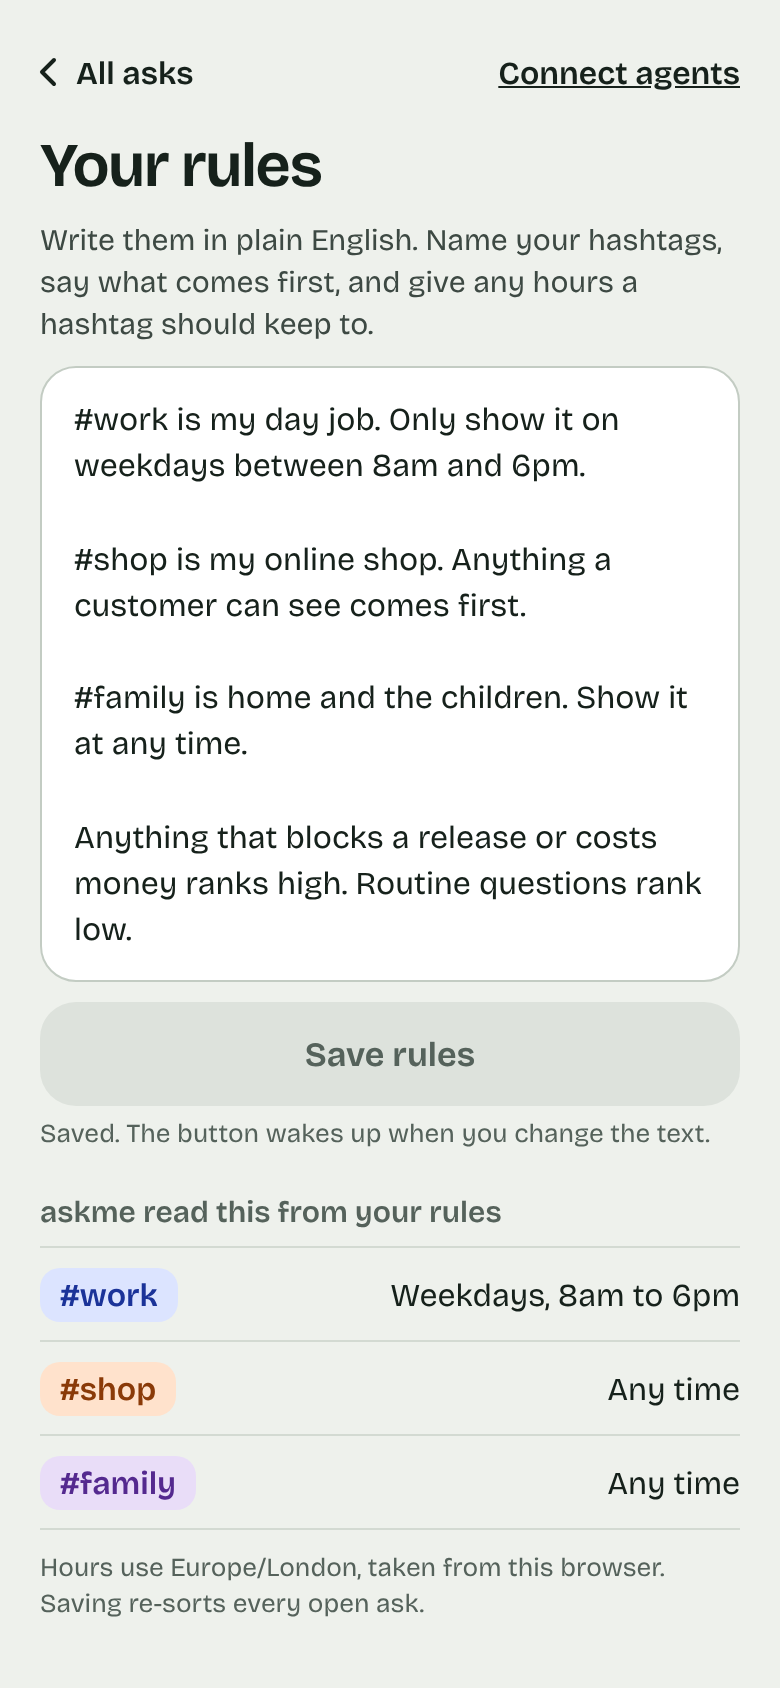
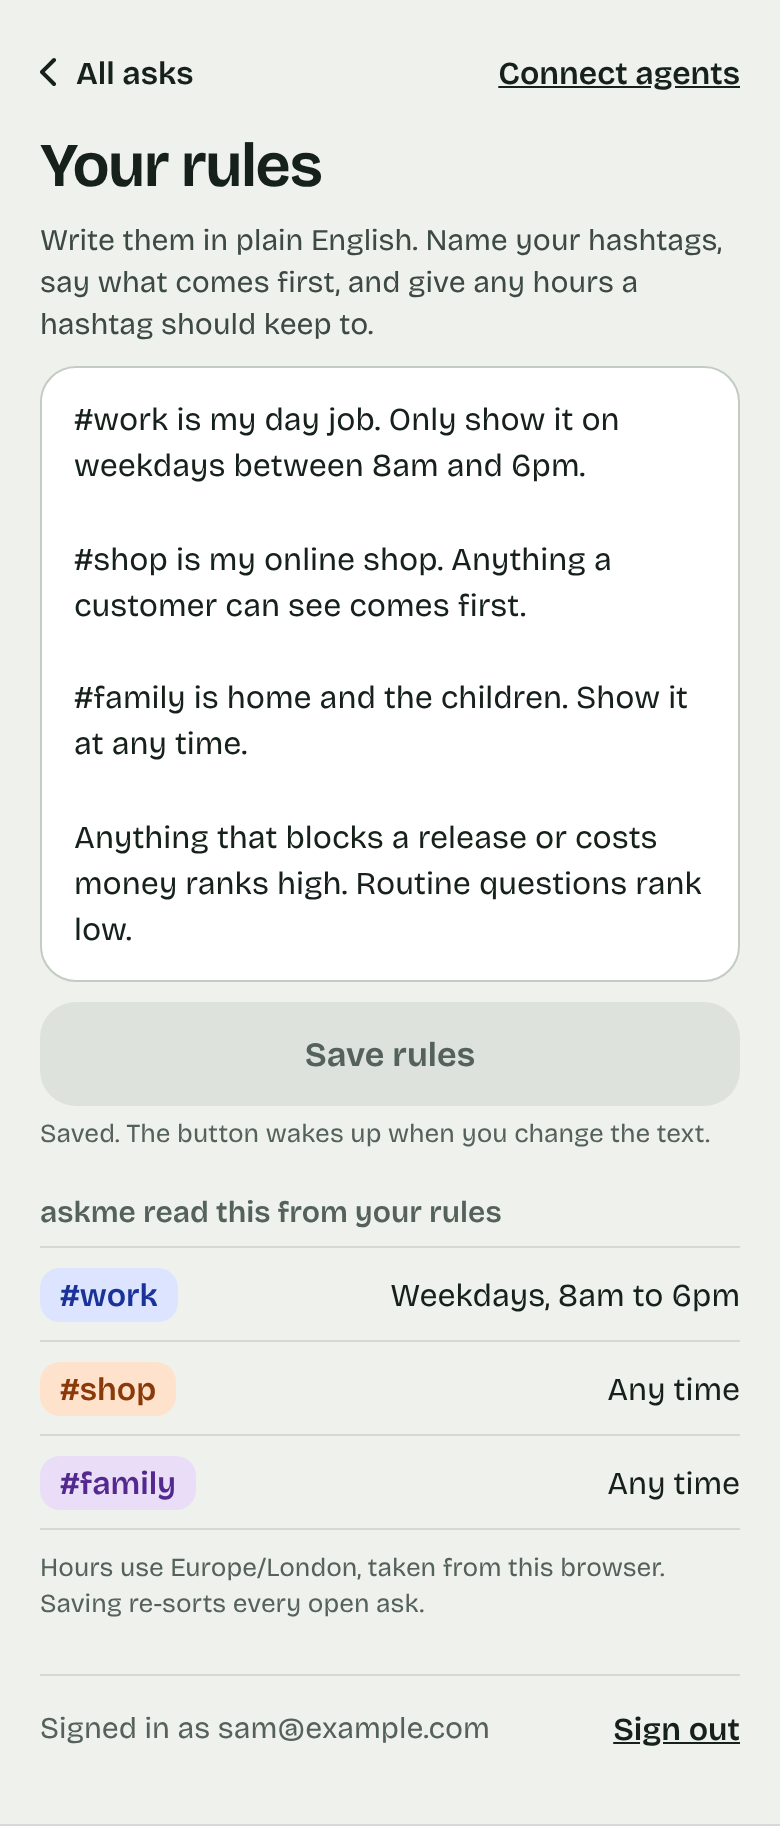
Let a signed-in person sign out from the rules
The foot of the Rules screen names the account and offers Sign out.
Pressing it asks first when the rules have unsaved text, drops the
screen from the address, and signs out through Clerk without loading
the page again, so the signed-out page shows. The live check now ends
by signing out, and a reload proves the session is gone.

Closes #28

Claude-Session: https://claude.ai/code/session_01HinZKMBxJb5qrDhfAU36UJ

diff --git a/web/rules.browser.ts b/web/rules.browser.ts
@@ -17,6 +17,7 @@ import { palette } from "./src/palette";
 
 const phone = { width: 390, height: 844 };
 const session = "test-session-token";
+const email = "sam@example.com";
 
 const text =
   "#work is my day job. Only show it on weekdays between 8am and 6pm.\n\n#shop is my online shop. Anything a customer can see comes first.";
@@ -69,6 +70,7 @@ async function openRules(
 ): Promise<OpenPage> {
   const view = await openPage(`${inject("pageUrl")}#rules`, viewport, {
     session,
+    email,
     timeZone,
     api: { [pagePaths.rules]: rules, [pagePaths.asks]: list },
   });
@@ -468,5 +470,72 @@ describe("the rules screen", () => {
       expect(box?.height, await control.innerText()).toBeGreaterThanOrEqual(44);
       expect(box?.width, await control.innerText()).toBeGreaterThanOrEqual(44);
     }
+  });
+});
+
+describe("signing out", () => {
+  const headline = "Your agents ask here. You decide what gets through.";
+
+  it("names the account at the foot of the rules, with Sign out beside it", async () => {
+    view = await openRules(saved);
+    const { page } = view;
+    const account = page.getByText(`Signed in as ${email}`, { exact: true });
+    const signOut = page.getByRole("button", { name: "Sign out" });
+    expect(await account.isVisible()).toBe(true);
+    expect(await signOut.isVisible()).toBe(true);
+    const footnote = await page
+      .getByText("Saving re-sorts every open ask.")
+      .boundingBox();
+    const [named, button] = await Promise.all([
+      account.boundingBox(),
+      signOut.boundingBox(),
+    ]);
+    expect(named?.y).toBeGreaterThan(footnote?.y ?? Infinity);
+    expect(button?.x).toBeGreaterThan(named?.x ?? Infinity);
+  });
+
+  it("offers Sign out alone when Clerk has no email address for the account", async () => {
+    view = await openPage(`${inject("pageUrl")}#rules`, phone, {
+      session,
+      api: { [pagePaths.rules]: saved, [pagePaths.asks]: list },
+    });
+    const { page } = view;
+    await page.getByRole("button", { name: "Sign out" }).waitFor();
+    expect(await page.getByText("Signed in as").count()).toBe(0);
+  });
+
+  it("signs out through Clerk and shows the signed-out page, with no screen in the address", async () => {
+    view = await openRules(saved);
+    const { page } = view;
+    await page.getByRole("button", { name: "Sign out" }).click();
+    await page.getByRole("heading", { level: 1, name: headline }).waitFor();
+    expect(await view.askedFor()).toBe("sign-out");
+    expect(
+      await page.getByRole("button", { name: "Sign in" }).isVisible(),
+    ).toBe(true);
+    expect(new URL(page.url()).hash).toBe("");
+  });
+
+  it("asks before signing out with unsaved text, and stays signed in when told to", async () => {
+    view = await openRules(saved);
+    const { page } = view;
+    const box = page.getByRole("textbox");
+    await box.fill("#work only.");
+    const asked: string[] = [];
+    page.once("dialog", (dialog) => {
+      asked.push(dialog.message());
+      void dialog.dismiss();
+    });
+    await page.getByRole("button", { name: "Sign out" }).click();
+    expect(asked).toEqual(["Leave without saving your rules?"]);
+    expect(await view.askedFor()).toBeNull();
+    expect(await box.inputValue()).toBe("#work only.");
+    expect(new URL(page.url()).hash).toBe("#rules");
+    page.once("dialog", (dialog) => {
+      void dialog.accept();
+    });
+    await page.getByRole("button", { name: "Sign out" }).click();
+    await page.getByRole("heading", { level: 1, name: headline }).waitFor();
+    expect(await view.askedFor()).toBe("sign-out");
   });
 });

diff --git a/docs/design/mockup/rules.html b/docs/design/mockup/rules.html
@@ -12,7 +12,7 @@ a{color:#16211B}a:hover{color:#16211B}
 <style>html{background:#D5DBD4}body{display:flex;justify-content:center}</style>
 </head>
 <body>
-<div style="width: 390px; height: 844px; box-sizing: border-box; background: #EEF1EC; color: #16211B; font-family: 'Bricolage Grotesque', sans-serif; display: flex; flex-direction: column; overflow: hidden">
+<div style="width: 390px; min-height: 844px; box-sizing: border-box; padding-bottom: 26px; background: #EEF1EC; color: #16211B; font-family: 'Bricolage Grotesque', sans-serif; display: flex; flex-direction: column">
 
 <header style="display: flex; align-items: center; justify-content: space-between; padding: 14px 12px 0 8px">
 <a href="list.html" style="min-height: 44px; padding: 0 12px 0 4px; display: flex; align-items: center; gap: 2px; color: #16211B; text-decoration: none; font-size: 16px; font-weight: 600"><svg width="24" height="24" viewBox="0 0 24 24" fill="none" stroke="currentColor" stroke-width="2" stroke-linecap="round" stroke-linejoin="round" aria-hidden="true"><path d="M15 18l-6-6 6-6"></path></svg>All asks</a>
@@ -40,6 +40,11 @@ Anything that blocks a release or costs money ranks high. Routine questions rank
 <div style="min-height: 46px; border-top: 1px solid #D3DAD2; border-bottom: 1px solid #D3DAD2; display: flex; align-items: center; justify-content: space-between; font-size: 16px"><span style="padding: 4px 10px; border-radius: 10px; background: #E9DDF8; color: #54298F; font-weight: 600">#family</span><span>Any time</span></div>
 <p style="margin: 10px 0 0; font-size: 13px; line-height: 1.4; color: #55625B">Hours use Europe/London, taken from this browser. Saving re-sorts every open ask.</p>
 </section>
+
+<div style="margin: 26px 20px 0; padding-top: 4px; border-top: 1px solid #D3DAD2; display: flex; flex-wrap: wrap; align-items: center; column-gap: 16px">
+<p style="margin: 0; font-size: 15px; line-height: 1.4; color: #55625B">Signed in as sam@example.com</p>
+<button style="min-height: 44px; margin-left: auto; padding: 0; border: 0; background: transparent; color: #16211B; font-family: inherit; font-size: 16px; font-weight: 600; text-decoration: underline; cursor: pointer">Sign out</button>
+</div>
 
 </div>
 </body>

diff --git a/web/signed-in.live.ts b/web/signed-in.live.ts
@@ -1,7 +1,8 @@
 // After each deploy, the one test account signs in on the live page through
 // Clerk's own screens, as a person does, and the signed-in page loads its
 // list (ADR 16). The first run, and any run after the account is deleted,
-// signs it up. The page only reads, so nothing here writes to askme's store.
+// signs it up. The run ends by signing out. The page only reads, so nothing
+// here writes to askme's store.
 import {
   chromium,
   type Browser,
@@ -48,7 +49,7 @@ const signUpAnswer = z.object({
   }),
 });
 
-describe("fitness: a person can sign in on the live page (test-tiers.md)", () => {
+describe("fitness: a person can sign in and out on the live page (test-tiers.md)", () => {
   let browser: Browser | undefined;
   let page: Page;
 
@@ -113,6 +114,35 @@ describe("fitness: a person can sign in on the live page (test-tiers.md)", () =>
       expect(
         await page.getByText("Not connected. Trying again.").isVisible(),
       ).toBe(false);
+    },
+    4 * stepMs,
+  );
+
+  // Sign out sits at the foot of the rules (docs/design.md, "Rules"). Once
+  // Clerk has ended the session, a reload still finds nobody signed in, so
+  // the run leaves no session behind.
+  it(
+    "signs out from the rules and shows the signed-out page",
+    async () => {
+      await page.getByRole("link", { name: "All asks" }).click();
+      await page
+        .getByRole("link", { name: "Rules", exact: true })
+        .click({ timeout: stepMs })
+        .catch(failsWith(page, "The header showed no way to the rules."));
+      expect(
+        await page
+          .getByText(`Signed in as ${testAddress}`, { exact: true })
+          .isVisible(),
+      ).toBe(true);
+      await page.getByRole("button", { name: "Sign out" }).click();
+      const signIn = page.getByRole("button", { name: "Sign in" });
+      await signIn
+        .waitFor({ timeout: stepMs })
+        .catch(failsWith(page, "Sign out did not show the signed-out page."));
+      await page.reload();
+      await signIn
+        .waitFor({ timeout: stepMs })
+        .catch(failsWith(page, "A reload after signing out was signed in."));
     },
     4 * stepMs,
   );

diff --git a/web/src/Rules.tsx b/web/src/Rules.tsx
@@ -6,6 +6,7 @@ import {
   type SubmitEvent,
 } from "react";
 import { rulesLimit } from "../../shared/page-api";
+import { useAuth } from "./auth";
 import { Refusal } from "./load";
 import type { AskFirst } from "./SignedIn";
 import { hoursText } from "./hours";
@@ -19,8 +20,10 @@ const leaving = "Leave without saving your rules?";
 // from them, each with its hours. Saving waits while askme reads them. If
 // it cannot, the text is saved all the same, the old hashtags and hours
 // stay, and the page offers to try again. Either way, saving re-sorts every
-// open ask, and a last note says so, after the time zone the hours use.
+// open ask, and a last note says so, after the time zone the hours use. At
+// the foot, the account signed in, and Sign out.
 export function Rules({ askFirst }: { askFirst: AskFirst }) {
+  const auth = useAuth();
   const { loaded, save } = useRules();
   const { data, failed } = loaded;
   const boxId = useId();
@@ -58,6 +61,15 @@ export function Rules({ askFirst }: { askFirst: AskFirst }) {
     if (!changed || elsewhere) return;
     if (window.confirm(leaving)) askFirst(null);
     else event.preventDefault();
+  };
+
+  // Signing out leaves the rules too, so unsaved text asks first. The screen
+  // goes from the address, so whoever signs in next starts at the list.
+  const signOut = () => {
+    if (changed && !window.confirm(leaving)) return;
+    const { pathname, search } = window.location;
+    window.history.replaceState(null, "", pathname + search);
+    auth.signOut();
   };
 
   const saveText = () => {
@@ -166,6 +178,14 @@ export function Rules({ askFirst }: { askFirst: AskFirst }) {
             ))}
           <Footnote loaded={data !== undefined} saved={data?.timeZone} />
         </section>
+        <div className={styles.account}>
+          {auth.email !== null && (
+            <p className={styles.signedIn}>Signed in as {auth.email}</p>
+          )}
+          <button className={styles.signOut} type="button" onClick={signOut}>
+            Sign out
+          </button>
+        </div>
       </main>
     </div>
   );

diff --git a/web/src/clerk.tsx b/web/src/clerk.tsx
@@ -2,7 +2,12 @@
 // screens, so at the 100-account limit of a development instance it is
 // Clerk's screen that refuses a sign-up. The page only asks Clerk who is
 // signed in, and for a session token to send to its API.
-import { ClerkProvider, useAuth as useClerkAuth, useClerk } from "@clerk/react";
+import {
+  ClerkProvider,
+  useAuth as useClerkAuth,
+  useClerk,
+  useUser,
+} from "@clerk/react";
 import { useMemo, type ReactNode } from "react";
 import { z } from "zod";
 import { AuthContext, type Auth } from "./auth";
@@ -17,19 +22,27 @@ const publishableKey = z
 
 function FromClerk({ children }: { children: ReactNode }) {
   const { isLoaded, isSignedIn, getToken } = useClerkAuth();
+  const { user } = useUser();
   const clerk = useClerk();
+  const email = user?.primaryEmailAddress?.emailAddress ?? null;
   const auth = useMemo<Auth>(
     () => ({
       status: !isLoaded ? "loading" : isSignedIn ? "signed-in" : "signed-out",
       getToken: () => getToken(),
+      email,
       signIn: () => {
         void clerk.redirectToSignIn();
       },
       signUp: () => {
         void clerk.redirectToSignUp();
       },
+      // Given a callback, Clerk runs it in place of sending the browser to
+      // its after-sign-out address, so the page is not loaded again.
+      signOut: () => {
+        void clerk.signOut(() => undefined);
+      },
     }),
-    [isLoaded, isSignedIn, getToken, clerk],
+    [isLoaded, isSignedIn, getToken, email, clerk],
   );
   return <AuthContext value={auth}>{children}</AuthContext>;
 }

diff --git a/test/page/fake-clerk.tsx b/test/page/fake-clerk.tsx
@@ -3,10 +3,11 @@
 // web/src/clerk.tsx. A test signs in by putting a session token in local
 // storage before the page loads, and reads which of Clerk's screens the
 // page asked for from session storage. A test signs in or out later by
-// changing the token and sending sessionChangedEvent.
+// changing the token and sending sessionChangedEvent. Signing out from the
+// page does the same, as Clerk ends the session and tells the page.
 import { useMemo, useSyncExternalStore, type ReactNode } from "react";
 import { AuthContext, type Auth } from "../../web/src/auth";
-import { askedForKey, sessionChangedEvent, sessionKey } from "./keys";
+import { askedForKey, emailKey, sessionChangedEvent, sessionKey } from "./keys";
 
 const subscribe = (changed: () => void) => {
   window.addEventListener(sessionChangedEvent, changed);
@@ -23,11 +24,17 @@ export function ClerkAuth({ children }: { children: ReactNode }) {
     return {
       status: token === null ? "signed-out" : "signed-in",
       getToken: () => Promise.resolve(token),
+      email: token === null ? null : localStorage.getItem(emailKey),
       signIn: () => {
         sessionStorage.setItem(askedForKey, "sign-in");
       },
       signUp: () => {
         sessionStorage.setItem(askedForKey, "sign-up");
+      },
+      signOut: () => {
+        sessionStorage.setItem(askedForKey, "sign-out");
+        localStorage.removeItem(sessionKey);
+        window.dispatchEvent(new Event(sessionChangedEvent));
       },
     };
   }, [token]);

diff --git a/test/browser.ts b/test/browser.ts
@@ -11,6 +11,7 @@ import { z } from "zod";
 import { sinceParam, type AsksAnswer } from "../shared/page-api";
 import {
   askedForKey,
+  emailKey,
   sessionChangedEvent,
   sessionKey,
   spokenKey,
@@ -48,6 +49,8 @@ export interface OpenPage {
 export interface PageOptions {
   // Signed in with this session token. Signed out when it is not set.
   session?: string;
+  // The signed-in person's email address. Left out, Clerk has none for them.
+  email?: string;
   // The page's API: each path's answer as JSON, a status alone, or an
   // answer worked out for each call. A path with no answer gets a 404.
   api?: Record<string, unknown>;
@@ -227,6 +230,14 @@ export async function openPage(
         localStorage.setItem(key, token);
       },
       [sessionKey, options.session] as const,
+    );
+  }
+  if (options.email !== undefined) {
+    await context.addInitScript(
+      ([key, email]) => {
+        localStorage.setItem(key, email);
+      },
+      [emailKey, options.email] as const,
     );
   }
   const page = await context.newPage();

diff --git a/web/src/Rules.module.css b/web/src/Rules.module.css
@@ -193,6 +193,40 @@
   margin: var(--space-10) 0 0;
 }
 
+/* Under a hairline at the foot: the account at the left, Sign out at the
+   right. A long address wraps rather than pushing the page sideways. */
+.account {
+  display: flex;
+  flex-wrap: wrap;
+  align-items: center;
+  column-gap: var(--space-16);
+  margin: var(--space-26) var(--space-text) 0;
+  padding-top: var(--space-4);
+  border-top: var(--hairline) solid var(--line);
+}
+
+.signedIn {
+  min-width: 0;
+  margin: 0;
+  color: var(--text-3);
+  font-size: var(--size-note);
+  line-height: var(--leading-note);
+  overflow-wrap: anywhere;
+}
+
+.signOut {
+  min-width: var(--tap);
+  min-height: var(--tap);
+  margin-left: auto;
+  padding: 0;
+  border: 0;
+  background: transparent;
+  color: var(--ink);
+  font-weight: var(--weight-label);
+  text-decoration: underline;
+  cursor: pointer;
+}
+
 @media (min-width: 768px) {
   .screen {
     width: 90%;

diff --git a/web/src/auth.ts b/web/src/auth.ts
@@ -7,9 +7,14 @@ export interface Auth {
   status: "loading" | "signed-out" | "signed-in";
   // A current session token for the page's API, or null when signed out.
   getToken: () => Promise<string | null>;
+  // The signed-in person's email address, or null when Clerk has none.
+  email: string | null;
   // Each sends the person to Clerk's own screen, which sends them back.
   signIn: () => void;
   signUp: () => void;
+  // Ends the session with Clerk, and the page stays where it is. Once Clerk
+  // says nobody is signed in, the page shows the signed-out page.
+  signOut: () => void;
 }
 
 export const AuthContext = createContext<Auth | null>(null);

diff --git a/test/page/keys.ts b/test/page/keys.ts
@@ -2,6 +2,8 @@
 // other in the page's storage.
 export const sessionKey = "askme-test-session";
 export const askedForKey = "askme-test-asked-for";
+// The signed-in person's email address, as Clerk would give it.
+export const emailKey = "askme-test-email";
 // Where, on the page's window, the stand-in for the browser's speech records
 // what the page asked it to read aloud.
 export const spokenKey = "askme-test-spoken";

diff --git a/docs/design.md b/docs/design.md
@@ -207,7 +207,9 @@ Shown when the account has never had an ask. A white card says "Your agents can 
 - "Save rules" is ink when the text has changed and `--neutral-tint` when it has not. Under it, one short note gives the state: "Saved.", "Reading your rules." or what went wrong.
 - Below, what askme read from the rules: each hashtag's pill with its hours, or "Any time". This list changes only when a save finishes.
 - A last note names the time zone and says that saving re-sorts every open ask.
-- "All asks" goes back. Leaving with unsaved text asks first.
+- At the foot, under a hairline: "Signed in as" and the person's email address in `--text-3`, and "Sign out" at the right in ink, underlined, like "Show them". With no email address, "Sign out" stands alone. The screen is taller than a phone, so the foot is reached by scrolling.
+- "Sign out" ends the session and shows the signed-out page.
+- "All asks" goes back. Leaving with unsaved text asks first, and so does "Sign out".
 
 ### Connect your agents
 
